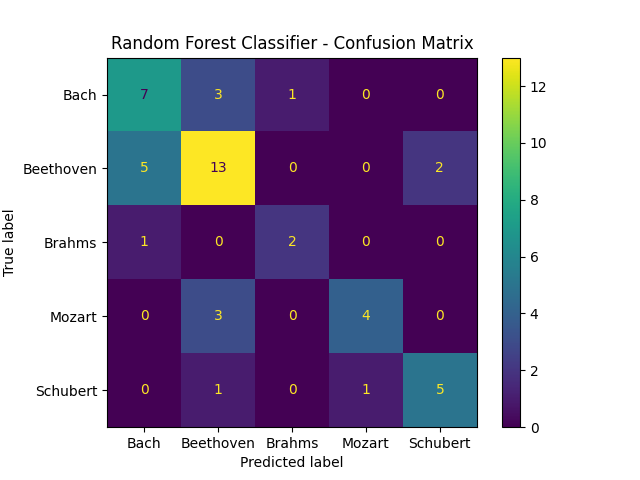
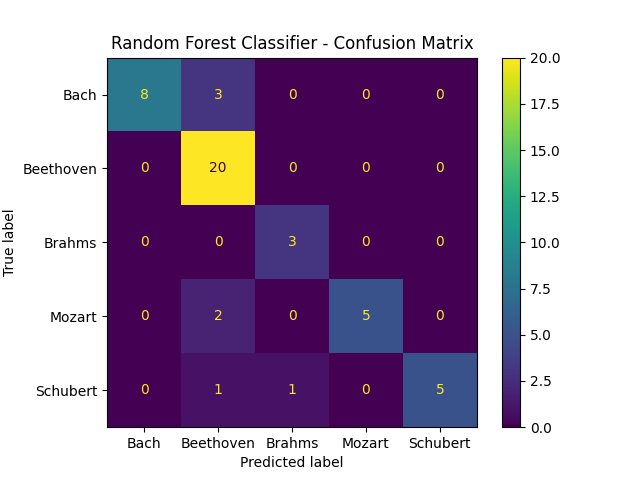
final changes

diff --git a/src/musicNet/main.py b/src/musicNet/main.py
@@ -7,6 +7,7 @@ from sklearn.ensemble import RandomForestClassifier
 from sklearn.metrics import confusion_matrix
 from sklearn.metrics import ConfusionMatrixDisplay
 from sklearn.metrics import f1_score
+from sklearn.metrics import roc_auc_score
 import xgboost as xgb
 
 path = 'src/musicNet/processed_data'
@@ -28,7 +29,7 @@ y_test[y_test==9] = 4
 
 labels = ['Bach', 'Beethoven', 'Brahms', 'Mozart', 'Schubert']
 
-dt_clf = DecisionTreeClassifier(random_state=42)
+dt_clf = DecisionTreeClassifier(max_depth=10, random_state=42)
 dt_clf.fit(X_train, y_train)
 y_pred = dt_clf.predict(X_test)
 training_accuracy = dt_clf.score(X_train, y_train)
@@ -73,9 +74,19 @@ ax.legend()
 plt.show()
 plt.close()
 
-dt_clf = DecisionTreeClassifier(random_state=42)
+dt_clf = DecisionTreeClassifier(max_depth=10, random_state=42)
 dt_clf.fit(X_train, y_train)
 ypred = dt_clf.predict(X_test)
+training_accuracy = dt_clf.score(X_train, y_train)
+accuracy = dt_clf.score(X_test, y_test)
+print("Decision Tree Classifier")
+print(f"Training Accuracy: {training_accuracy}")
+print(f"Test Accuracy: {accuracy}")
+print(f"Test F1-Score: {f1_score(y_test, ypred, average='weighted')}")
+ypred_proba = dt_clf.predict_proba(X_test)
+print(f"Test 1v1 AUC-Score: {roc_auc_score(y_test, ypred_proba, average='weighted', multi_class='ovo')}")
+print(f"Test 1vRest AUC-Score: {roc_auc_score(y_test, ypred_proba, average='weighted', multi_class='ovr')}\n")
+print(dt_clf.get_depth())
 
 confusion_mat = confusion_matrix(y_test, ypred)
 conf_mat_display = ConfusionMatrixDisplay(confusion_matrix=confusion_mat, display_labels=labels)
@@ -90,11 +101,14 @@ rf_clf = RandomForestClassifier(random_state=42, max_features=512, n_estimators=
 rf_clf.fit(X_train, y_train)
 training_accuracy = rf_clf.score(X_train, y_train)
 accuracy = rf_clf.score(X_test, y_test)
-y_pred = rf_clf.predict(X_test)
+ypred = rf_clf.predict(X_test)
 print("Random Forest Classifier")
 print(f"Training Accuracy: {training_accuracy}")
 print(f"Test Accuracy: {accuracy}")
-print(f"Test F1-Score{f1_score(y_test, y_pred, average='weighted')}")
+print(f"Test F1-Score{f1_score(y_test, ypred, average='weighted')}")
+ypred_proba = rf_clf.predict_proba(X_test)
+print(f"Test 1v1 AUC-Score: {roc_auc_score(y_test, ypred_proba, average='weighted', multi_class='ovo')}")
+print(f"Test 1vRest AUC-Score: {roc_auc_score(y_test, ypred_proba, average='weighted', multi_class='ovr')}\n")
 max_depth = 0
 for tree in rf_clf.estimators_:
     if max_depth < tree.get_depth():
@@ -121,7 +135,10 @@ ypred = bst.predict(X_test)
 print("XGBoost Classifier - 20 estimators, max_depth of 15, learning rate of 0.8, softmax objective function.")
 print(f"Training Accuracy: {training_accuracy}")
 print(f"Test Accuracy: {accuracy}")
-print(f"Test F1-Score{f1_score(y_test, y_pred, average='weighted')}\n")
+print(f"Test F1-Score{f1_score(y_test, ypred, average='weighted')}")
+ypred_proba = bst.predict_proba(X_test)
+print(f"Test 1v1 AUC-Score: {roc_auc_score(y_test, ypred_proba, average='weighted', multi_class='ovo')}")
+print(f"Test 1vRest AUC-Score: {roc_auc_score(y_test, ypred_proba, average='weighted', multi_class='ovr')}\n")
 
 confusion_mat = confusion_matrix(y_test, ypred)
 conf_mat_display = ConfusionMatrixDisplay(confusion_matrix=confusion_mat,  display_labels=labels)
@@ -194,7 +211,10 @@ ypred = xgb_clf.predict(X_test)
 print("XGBoost Classifier - 1000 estimators, max_depth of 15, learning rate of 0.8, softmax objective function.")
 print(f"Training Accuracy: {training_accuracy}")
 print(f"Test Accuracy: {accuracy}")
-print(f"Test F1-Score{f1_score(y_test, y_pred, average='weighted')}\n")
+print(f"Test F1-Score{f1_score(y_test, ypred, average='weighted')}")
+ypred_proba = xgb_clf.predict_proba(X_test)
+print(f"Test 1v1 AUC-Score: {roc_auc_score(y_test, ypred_proba, average='weighted', multi_class='ovo')}")
+print(f"Test 1vRest AUC-Score: {roc_auc_score(y_test, ypred_proba, average='weighted', multi_class='ovr')}\n")
 
 confusion_mat = confusion_matrix(y_test, ypred)
 conf_mat_display = ConfusionMatrixDisplay(confusion_matrix=confusion_mat,  display_labels=labels)

diff --git a/tabs/final_report.md b/tabs/final_report.md
@@ -202,12 +202,14 @@ We fit our decision tree with the cost complexity hyperparameter described [prev
 
 <img src="../assets/dt_confusion_matrix.png" alt="drawing" width="300"/>
 
-A note on F1-Score: For this section, we use a weighted average F1 score since this is a multi-class classification task and we believe this method of aggregated pairwise F1-scores is best for our imbalanced dataset.
+**A note on F1-Score and AUC:** For this section, we use a weighted average F1-score and weighted average Area Under the receiver operating Curve (AUC). The reason we weight these scores is due to the imbalance in the classes for this dataset. The F1-score metric is the harmonic mean of precision and reall. Thus, it acts as an aggregated metric for both precision and recall. Because it's defined on a binary case of true/false postive/negatives, each class has its corresponding F1-score. These values are then aggregated by a weighted average into one value, as reported below. The AUC metric is an aggregate measurement of true and false positive rates derived from the ROC plot, which plots the true positive rate (TPR) against the false positive rate (FPR) at each threshold setting. Similarly to the F1-score, this is a binary classification statistics. Therefore, each class has their own AUC score which is aggregated into a single reported AUC. We use both the 1 vs Rest and 1 vs 1 methods. 1 vs Rest divides the data into two classes as the 1 class we are measuring (positive), and the rest (negatives). The 1 vs 1 method only looks at pairwise comparisons between each class as the positives and negatives. Both of the metrics for measuring classification performance are highly regarded and tend to perform better than accuracy alone, especially in imbalanced datasets such as this one [[5.]](#references), [[6.]].
 
 Decision Tree Classifier Results:
 - Training Accuracy: 1.0
 - Test Accuracy: 0.6458333333333334
 - Test F1-Score: 0.6475694444444445
+- Test 1v1 AUC-Score: 0.7684729549963925
+- Test 1vRest AUC-Score: 0.7462224419541492
 
 We can see the model does actually quite well for how little training data there is and how poorly the data is distributed. This landmark shows that our processing algorithm for the MIDI is effective to at least some extent in distinguishing certain composers from others.
 
@@ -221,8 +223,10 @@ Random Forest Classifier Results:
 - Training Accuracy: 1.0
 - Test Accuracy: 0.8541666666666666
 - Test F1-Score: 0.8519282808470453
+- Test 1v1 AUC-Score: 0.9701817279942282
+- Test 1vRest AUC-Score: 0.9668985078283857
 
-We can see that random forests drastically improve classification results. Since random forests are highly interpretable and cost efficient we would opt for this model over other less interpretable and cost ineffecitve models. This idea is showcased in the subsequent section with the introduction of gradient-boosted trees.
+We can see that random forests drastically improve classification results. Since random forests are highly interpretable and cost efficient, we would opt for this model over other less interpretable and cost ineffecitve models. This idea is showcased in the subsequent section with the introduction of gradient-boosted trees.
 
 #### Gradient-Boosted Trees
 
@@ -255,7 +259,9 @@ Model 1 Training Table:
 XGBoost Model 1 Results:
 - Training Accuracy: 0.9652777777777778
 - Test Accuracy: 0.8541666666666666
-- Test F1-Score: 0.8519282808470453
+- Test F1-Score: 0.7749568668046929
+- Test 1v1 AUC-Score: 0.9282258973665223
+- Test 1vRest AUC-Score: 0.936447444831591
 
 <img src="../assets/xgboost_model1_confusion_matrix.png" alt="drawing" width="300"/>
 
@@ -288,7 +294,9 @@ Model 2 Training Table:
 XGBoost Model 2 Results:
 - Training Accuracy: 0.9930555555555556
 - Test Accuracy: 0.8541666666666666
-- Test F1-Score: 0.8519282808470453
+- Test F1-Score: 0.7664231763068972
+- Test 1v1 AUC-Score: 0.9095452290764792
+- Test 1vRest AUC-Score: 0.910000647424428
 
 <img src="../assets/xgboost_model3_confusion_matrix.png" alt="drawing" width="300"/>
 
@@ -360,3 +368,8 @@ Link to Gantt Chart: [Gantt Chart](https://gtvault-my.sharepoint.com/:x:/g/perso
 
 [3.] Pál, T., & Várkonyi, D.T. (2020). Comparison of Dimensionality Reduction Techniques on Audio Signals. Conference on Theory and Practice of Information Technologies.
 
+[4.] (https://www.kaggle.com/code/imsparsh/gtzan-genre-classification-deep-learning-val-92-4) Gupta, S. (2021). GTZAN-Genre Classification-Deep Learning-Val-92.4%.
+
+[5.] Ferrer, L. (n.d.). Analysis and comparison of classification metrics - arxiv.org. Arxiv. https://arxiv.org/pdf/2209.05355.pdf 
+
+[6.] Brownlee, J. (2021, April 30). Tour of evaluation metrics for imbalanced classification. MachineLearningMastery.com. https://machinelearningmastery.com/tour-of-evaluation-metrics-for-imbalanced-classification/ 
